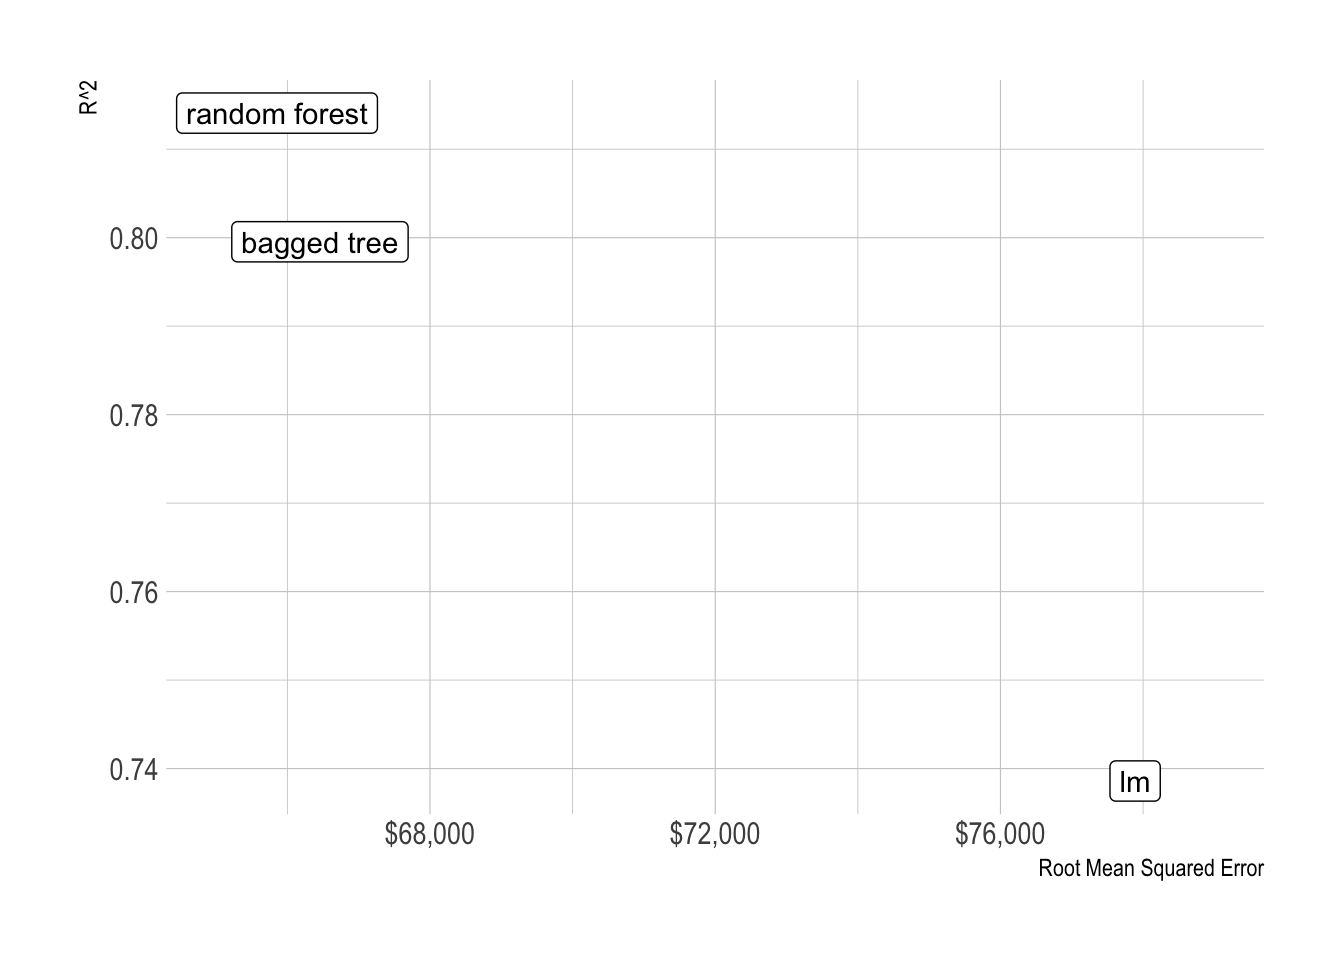
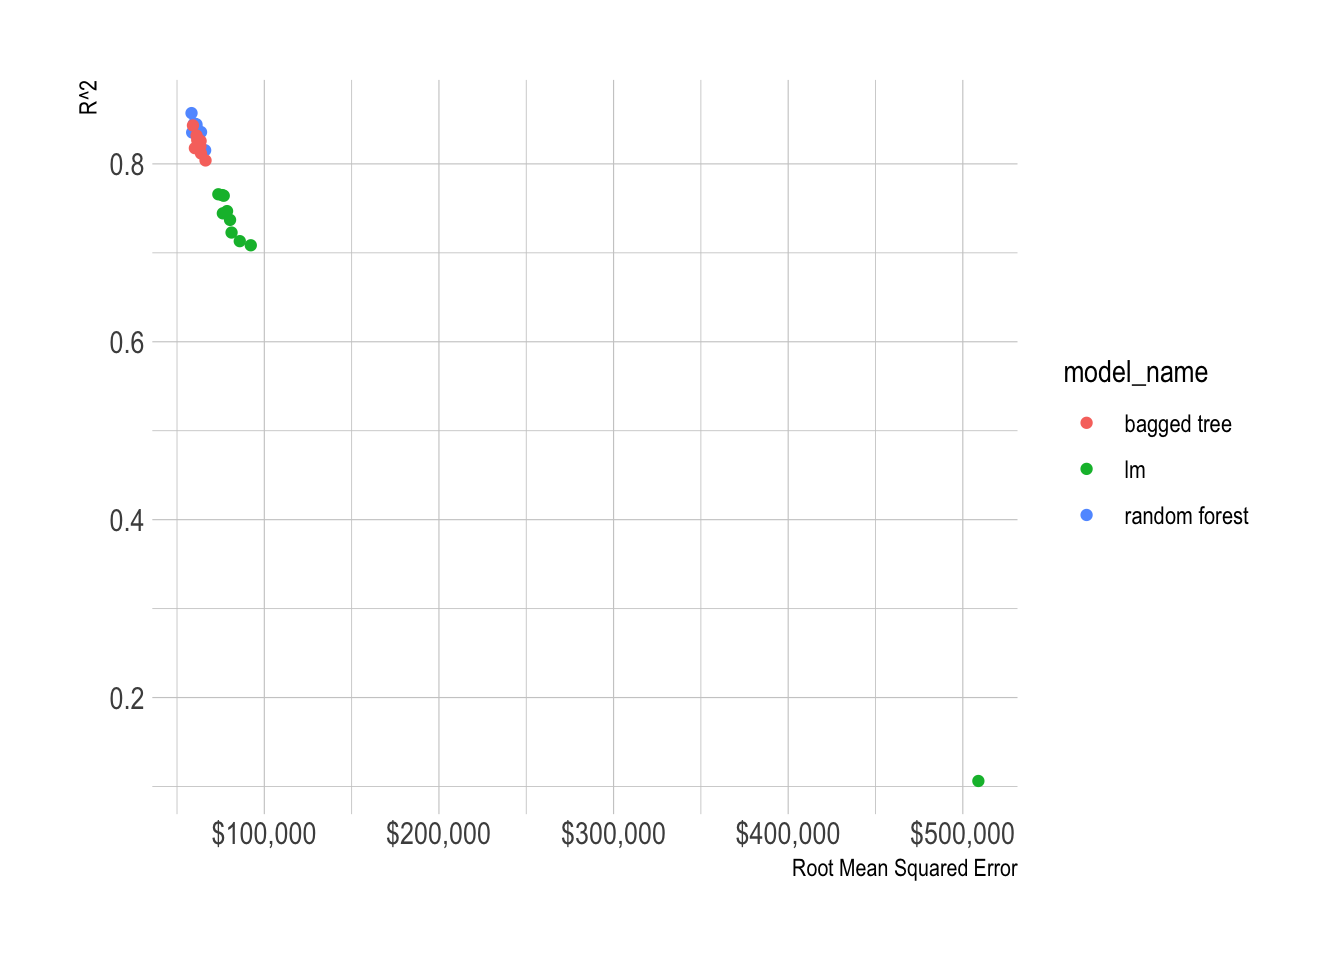
updated model discussion section with data from updated model

diff --git a/content/post/house_price_estimator/index.html b/content/post/house_price_estimator/index.html
@@ -46,47 +46,28 @@ projects: []
 <p>Total observations: 160,181</p>
 <div id="training-set-metrics-75-of-total-observations" class="section level2">
 <h2>Training set metrics (75% of total observations)</h2>
+<p>I used 10-fold cross-validation to assess model performance against the training set:</p>
 <pre class="r"><code>train_metrics %&gt;% 
-  select(model_name, dataset, .metric, .estimate) %&gt;% 
-  pivot_wider(names_from = .metric, values_from = .estimate)</code></pre>
-<pre><code>## # A tibble: 3 x 5
-##   model_name    dataset   rmse   rsq    mae
-##   &lt;chr&gt;         &lt;chr&gt;    &lt;dbl&gt; &lt;dbl&gt;  &lt;dbl&gt;
-## 1 lm            train   77888. 0.739 41805.
-## 2 random forest train   65855. 0.814 36710.
-## 3 bagged tree   train   66457. 0.800 38396.</code></pre>
-<pre class="r"><code>train_metrics %&gt;% 
-  select(model_name, .metric, .estimate) %&gt;% 
+  select(model_name, id, .metric, .estimate) %&gt;% 
   pivot_wider(names_from = .metric, values_from = .estimate) %&gt;% 
-  ggplot(aes(rmse, rsq, label = model_name)) +
-  geom_label() +
+  ggplot(aes(rmse, rsq, color = model_name)) +
+  geom_point() +
   scale_x_continuous(label = dollar) +
-  coord_cartesian(xlim = c(65000, 79000)) +
+  #coord_cartesian(xlim = c(65000, 79000)) +
   labs(x = &quot;Root Mean Squared Error&quot;,
        y = &quot;R^2&quot;)</code></pre>
-<p><img src="{{< blogdown/postref >}}index_files/figure-html/unnamed-chunk-5-1.png" width="672" /></p>
+<p><img src="{{< blogdown/postref >}}index_files/figure-html/unnamed-chunk-4-1.png" width="672" /></p>
 </div>
 <div id="test-set-metrics-25-of-total-observations" class="section level2">
 <h2>Test set metrics (25% of total observations)</h2>
 <pre class="r"><code>test_metrics %&gt;% 
-  select(model_name, dataset, .metric, .estimate) %&gt;% 
-  pivot_wider(names_from = .metric, values_from = .estimate)</code></pre>
-<pre><code>## # A tibble: 3 x 5
-##   model_name    dataset   rmse   rsq    mae
-##   &lt;chr&gt;         &lt;chr&gt;    &lt;dbl&gt; &lt;dbl&gt;  &lt;dbl&gt;
-## 1 lm            test    82994. 0.709 42025.
-## 2 random forest test    67518. 0.808 36568.
-## 3 bagged tree   test    68223. 0.793 38220.</code></pre>
-<pre class="r"><code>test_metrics %&gt;% 
-  select(model_name, .metric, .estimate) %&gt;% 
-  pivot_wider(names_from = .metric, values_from = .estimate) %&gt;% 
-  ggplot(aes(rmse, rsq, label = model_name)) +
-  geom_label() +
-  scale_x_continuous(label = dollar) +
-  coord_cartesian(xlim = c(65000, 83000)) +
-  labs(x = &quot;Root Mean Squared Error&quot;,
-       y = &quot;R^2&quot;)</code></pre>
-<p><img src="{{< blogdown/postref >}}index_files/figure-html/unnamed-chunk-8-1.png" width="672" /></p>
+  select(.metric, .estimate)</code></pre>
+<pre><code>## # A tibble: 3 x 2
+##   .metric .estimate
+##   &lt;chr&gt;       &lt;dbl&gt;
+## 1 rmse    63666.   
+## 2 rsq         0.820
+## 3 mape       27.6</code></pre>
 </div>
 <div id="observed-vs.-predicted-full-dataset" class="section level2">
 <h2>Observed vs. Predicted (full dataset)</h2>
@@ -102,7 +83,7 @@ projects: []
        y = &quot;Predicted sale price&quot;,
        title = &quot;Observed vs. Predicted sale price&quot;,
        fill = &quot;Density of observations&quot;)</code></pre>
-<p><img src="{{< blogdown/postref >}}index_files/figure-html/unnamed-chunk-10-1.png" width="672" /></p>
+<p><img src="{{< blogdown/postref >}}index_files/figure-html/unnamed-chunk-8-1.png" width="672" /></p>
 </div>
 <div id="variable-importance" class="section level2">
 <h2>Variable Importance</h2>
@@ -113,6 +94,15 @@ projects: []
   scale_x_comma() +
   labs(x = &quot;Importance&quot;,
        y = NULL)</code></pre>
+<p><img src="{{< blogdown/postref >}}index_files/figure-html/unnamed-chunk-10-1.png" width="672" />
+Model performance by <code>geo_id</code></p>
+<pre class="r"><code>geo_id_shapes %&gt;% 
+  left_join(geo_id_rsq) %&gt;% 
+  ggplot() +
+  geom_sf(aes(fill = .estimate)) +
+  scale_fill_viridis_c() +
+  labs(fill = &quot;R-squared&quot;) +
+  theme_void()</code></pre>
 <p><img src="{{< blogdown/postref >}}index_files/figure-html/unnamed-chunk-12-1.png" width="672" /></p>
 </div>
 </div>
